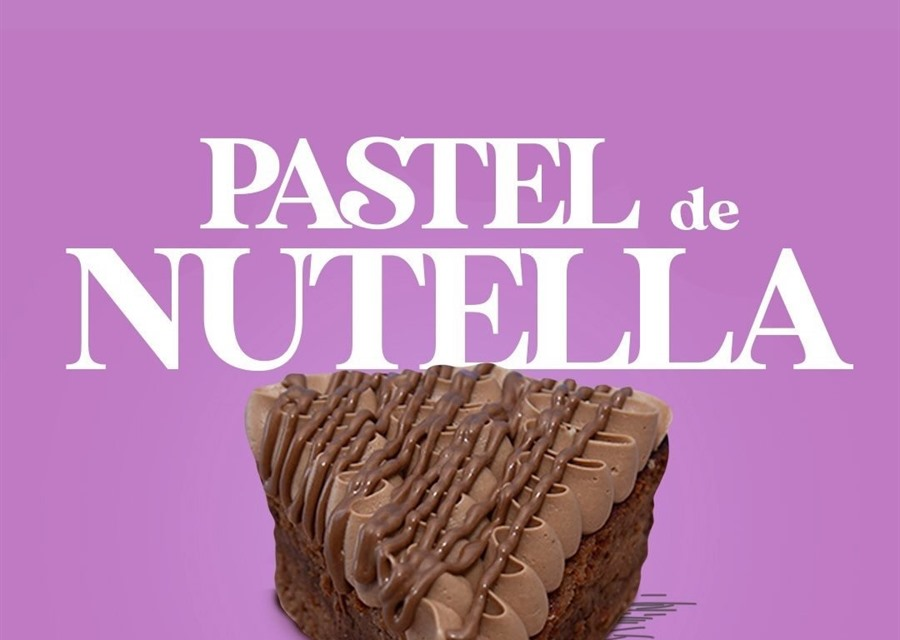
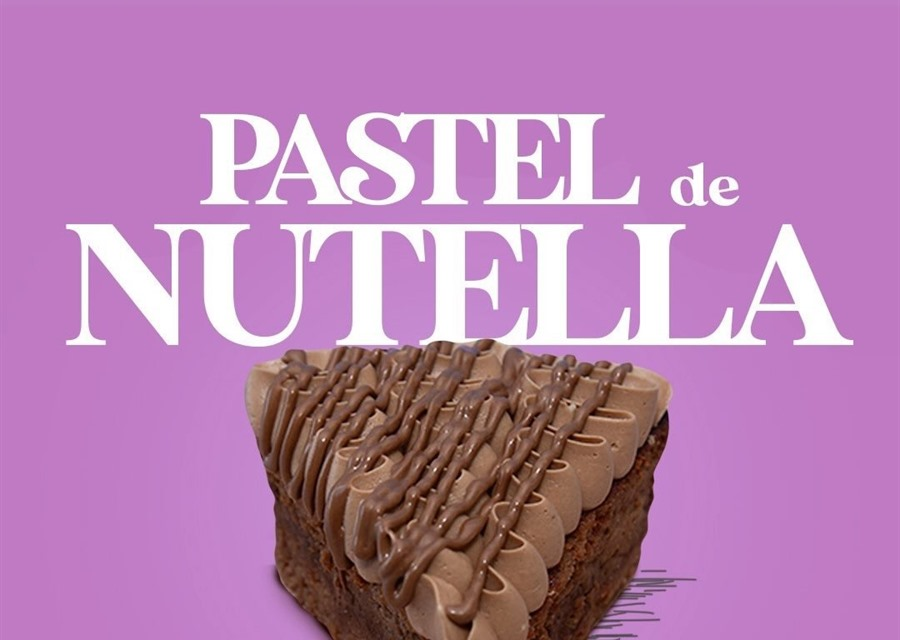
Ajustar encuadre de rebanadas Pande

Changed region(s): [[0.0622, 0.1562, 0.9644, 1.0]]

diff --git a/public/pande/js/app.js b/public/pande/js/app.js
@@ -1,7 +1,7 @@
 const SCRIPT_URL = "https://script.google.com/macros/s/AKfycbwGxnv1CbQvLTF9fnQwa3kg6aICwHLWM4n05kGT6x5P7Osjt16-BIe2_AXZ0L-5MmR0/exec";
 
 const FRONTEND_KEY = "PANDE_PUBLIC_2026";
-const IMAGE_VERSION = "20260624a";
+const IMAGE_VERSION = "20260624b";
 
 const PRODUCT_IMAGE_OVERRIDES = {
   T09: "./img/panque-de-naranja-cero-azucar.jpg"
